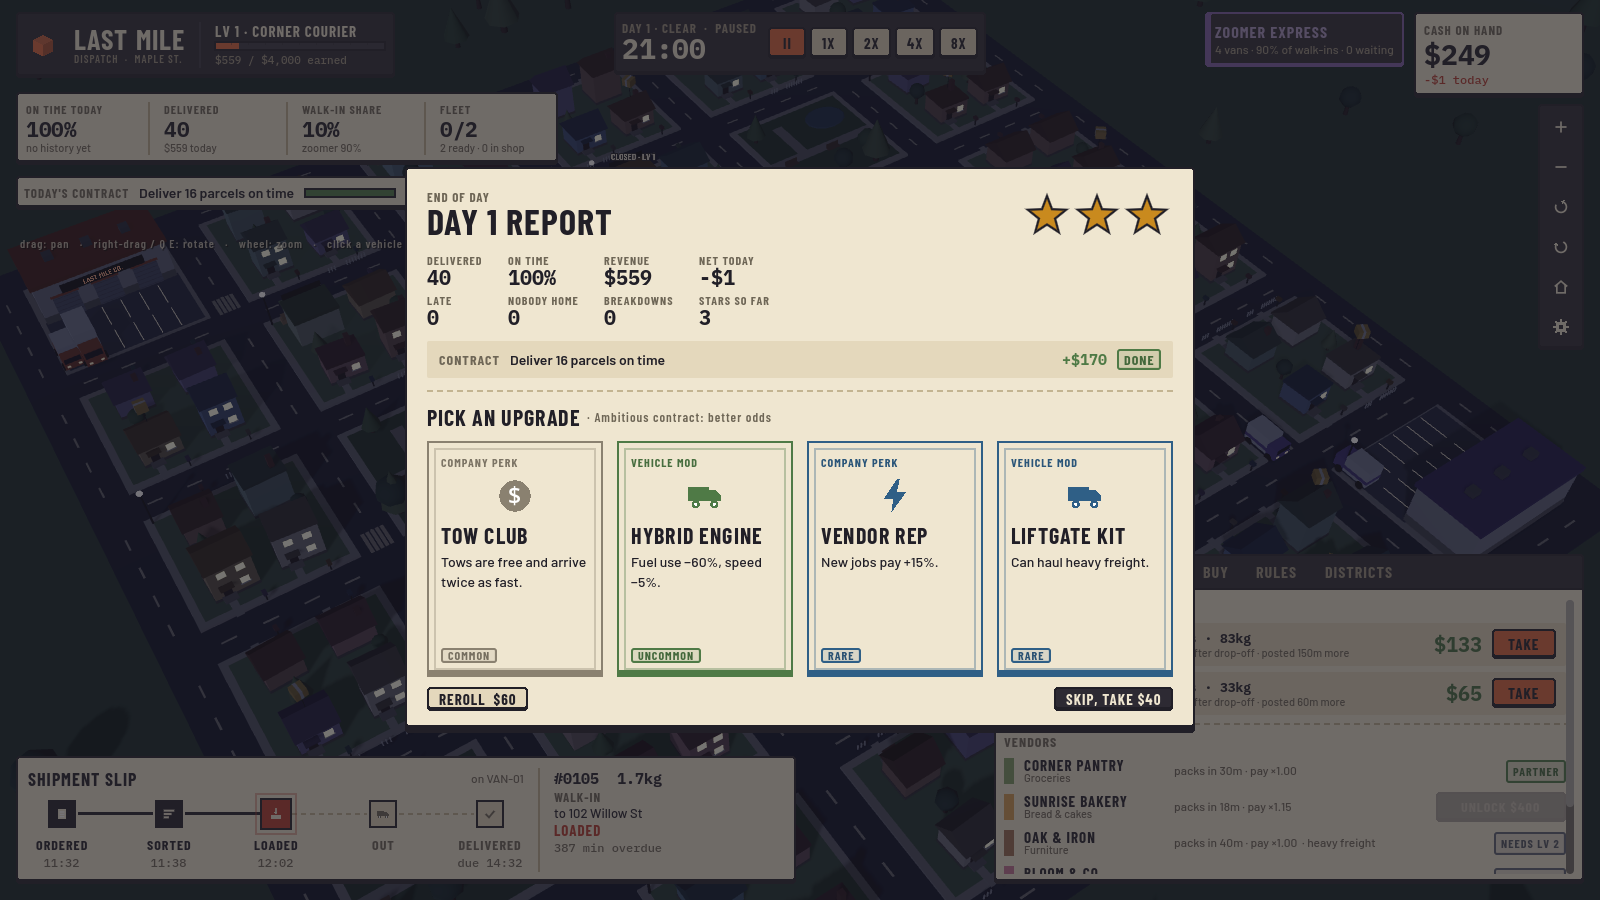
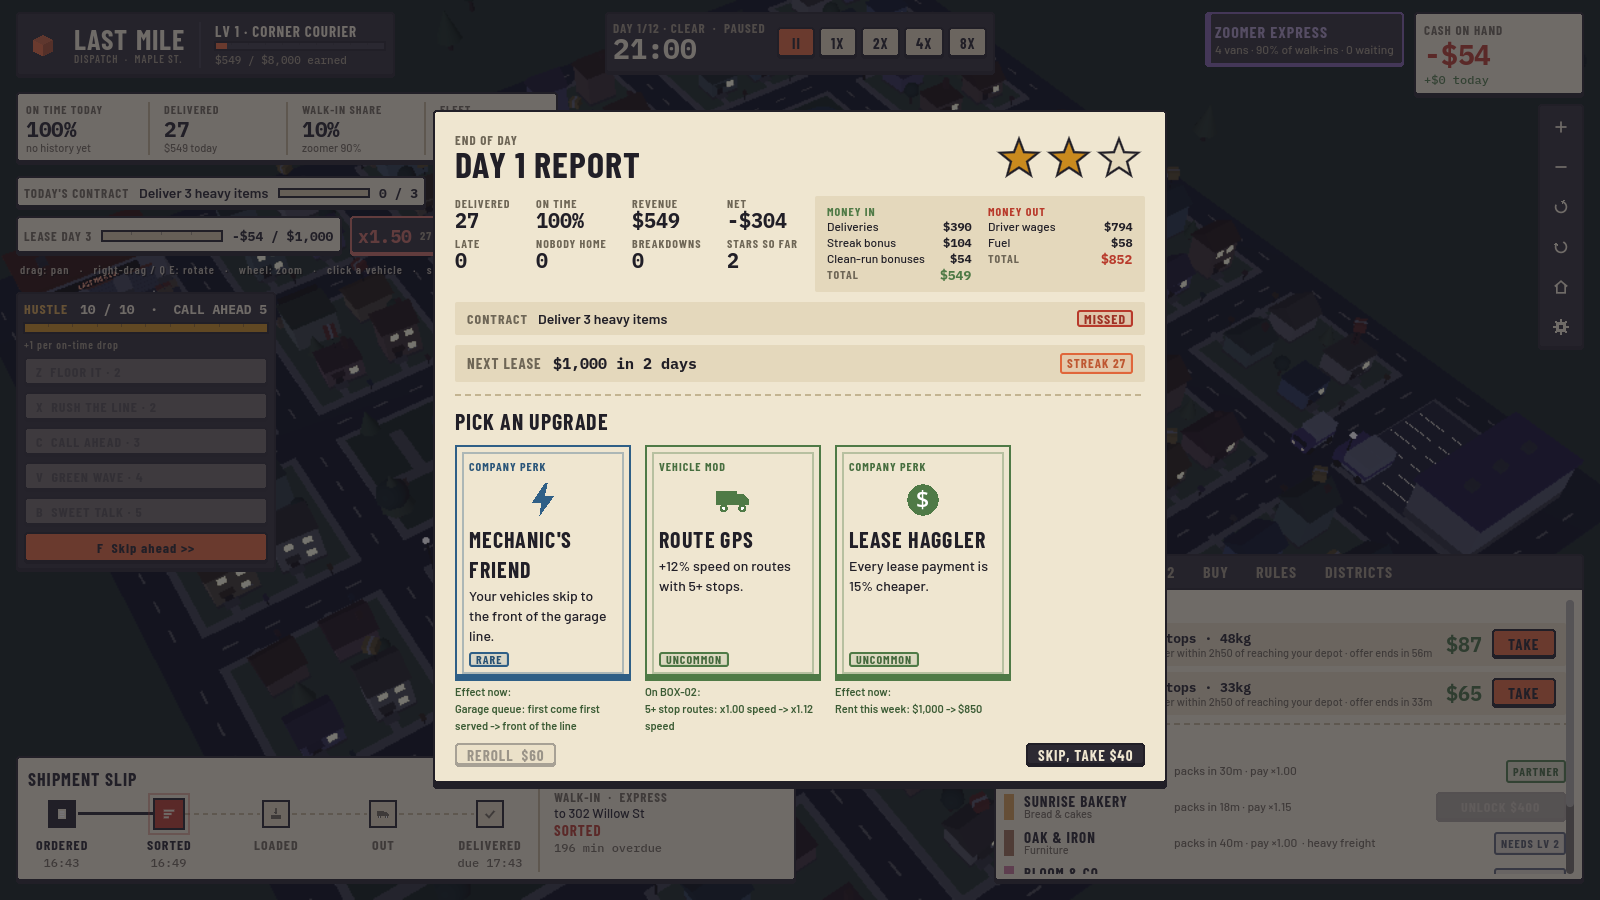
Heat rent +10% per level, small wording fixes, fresh screenshots
- Each heat level now adds 10% rent (heat 8 is tight even for the
  scripted expert); season_test, sim_test, save_test, audio_test pass.
- Fleet stat says "loaded" (not "ready"); title shows v0.8.
- README screenshots refreshed: evening report with money breakdown and
  card previews, route sheet with costs, handbook, cash tooltip.

Claude-Session: https://claude.ai/code/session_0137GwYSvcqUyZgLfxciisa6

diff --git a/README.md b/README.md
@@ -266,8 +266,12 @@ Run a full season: `godot --headless --path . -s tools/season_test.gd`
 
 ## Screenshots
 
+| Handbook (F1) | Cash tooltip: where the money went |
+|---|---|
+| ![](docs/screenshots/handbook.png) | ![](docs/screenshots/cash-tooltip.png) |
+
 | Morning briefing | Route sheet |
 |---|---|
 | ![](docs/screenshots/briefing.png) | ![](docs/screenshots/route-sheet.png) |
-| **Evening report and card draft** | **A van on its route** |
+| **Evening report: money breakdown and card previews** | **A van on its route** |
 | ![](docs/screenshots/day-report.png) | ![](docs/screenshots/selected-van.png) |
